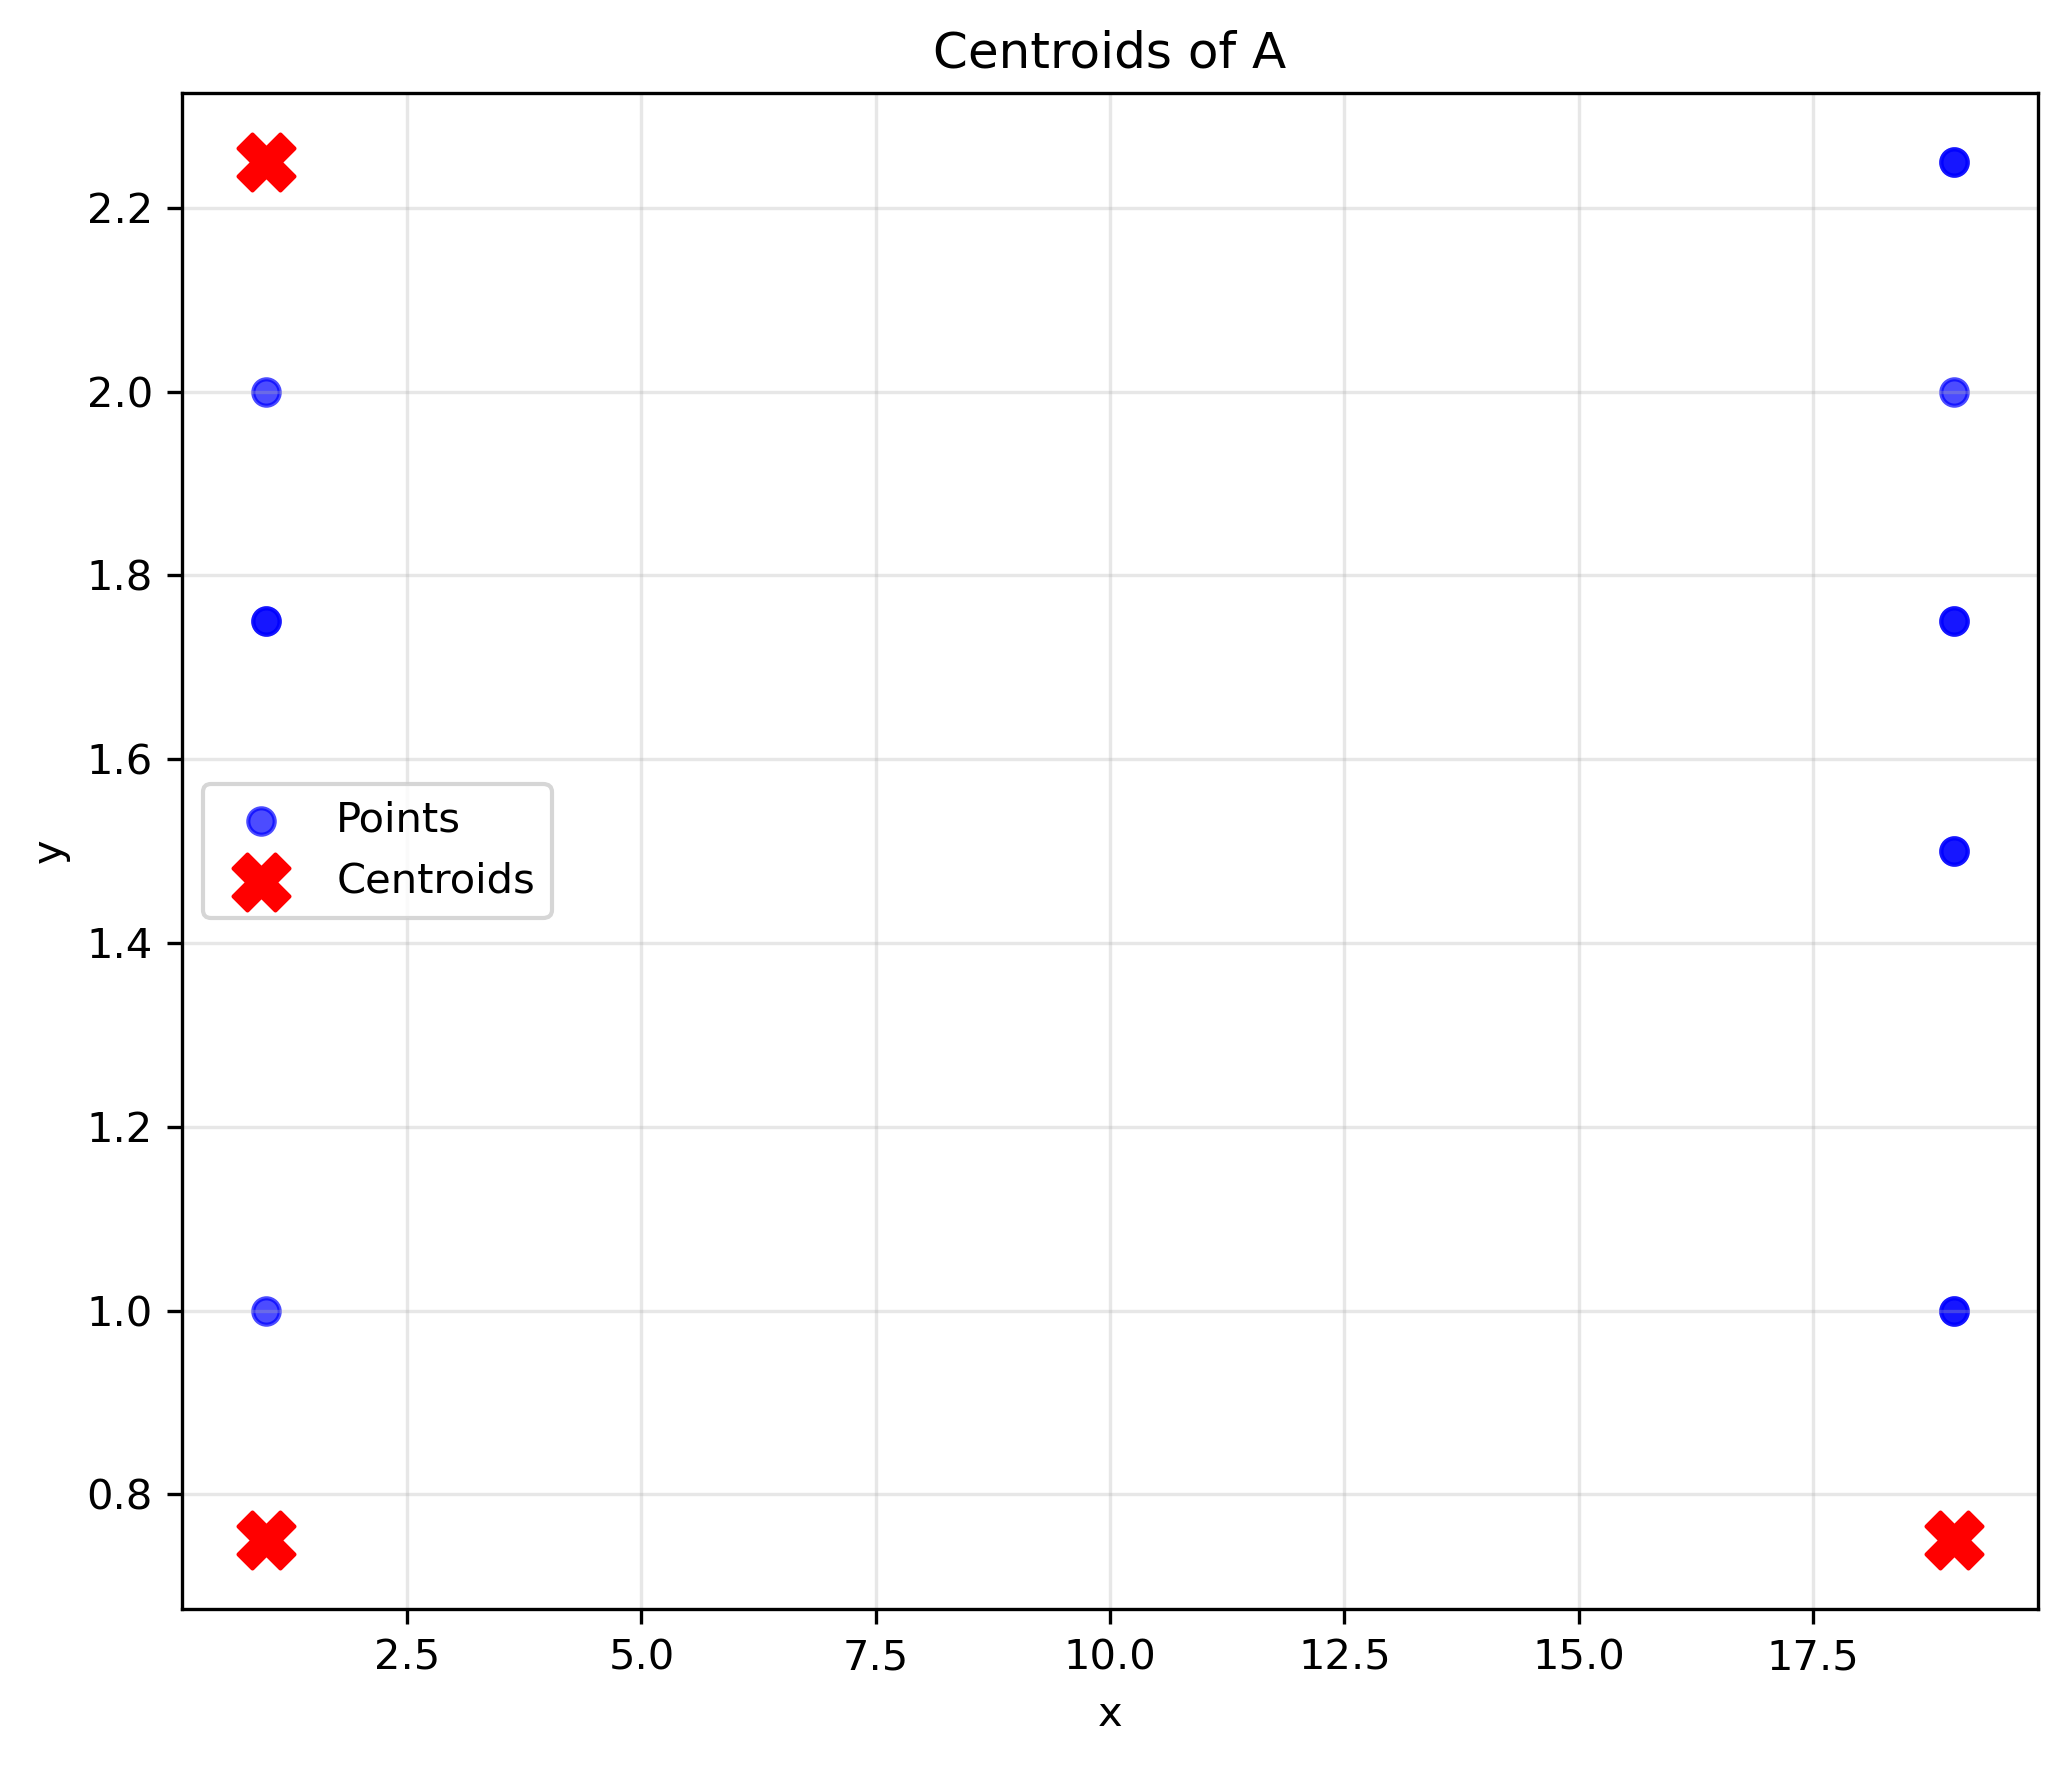
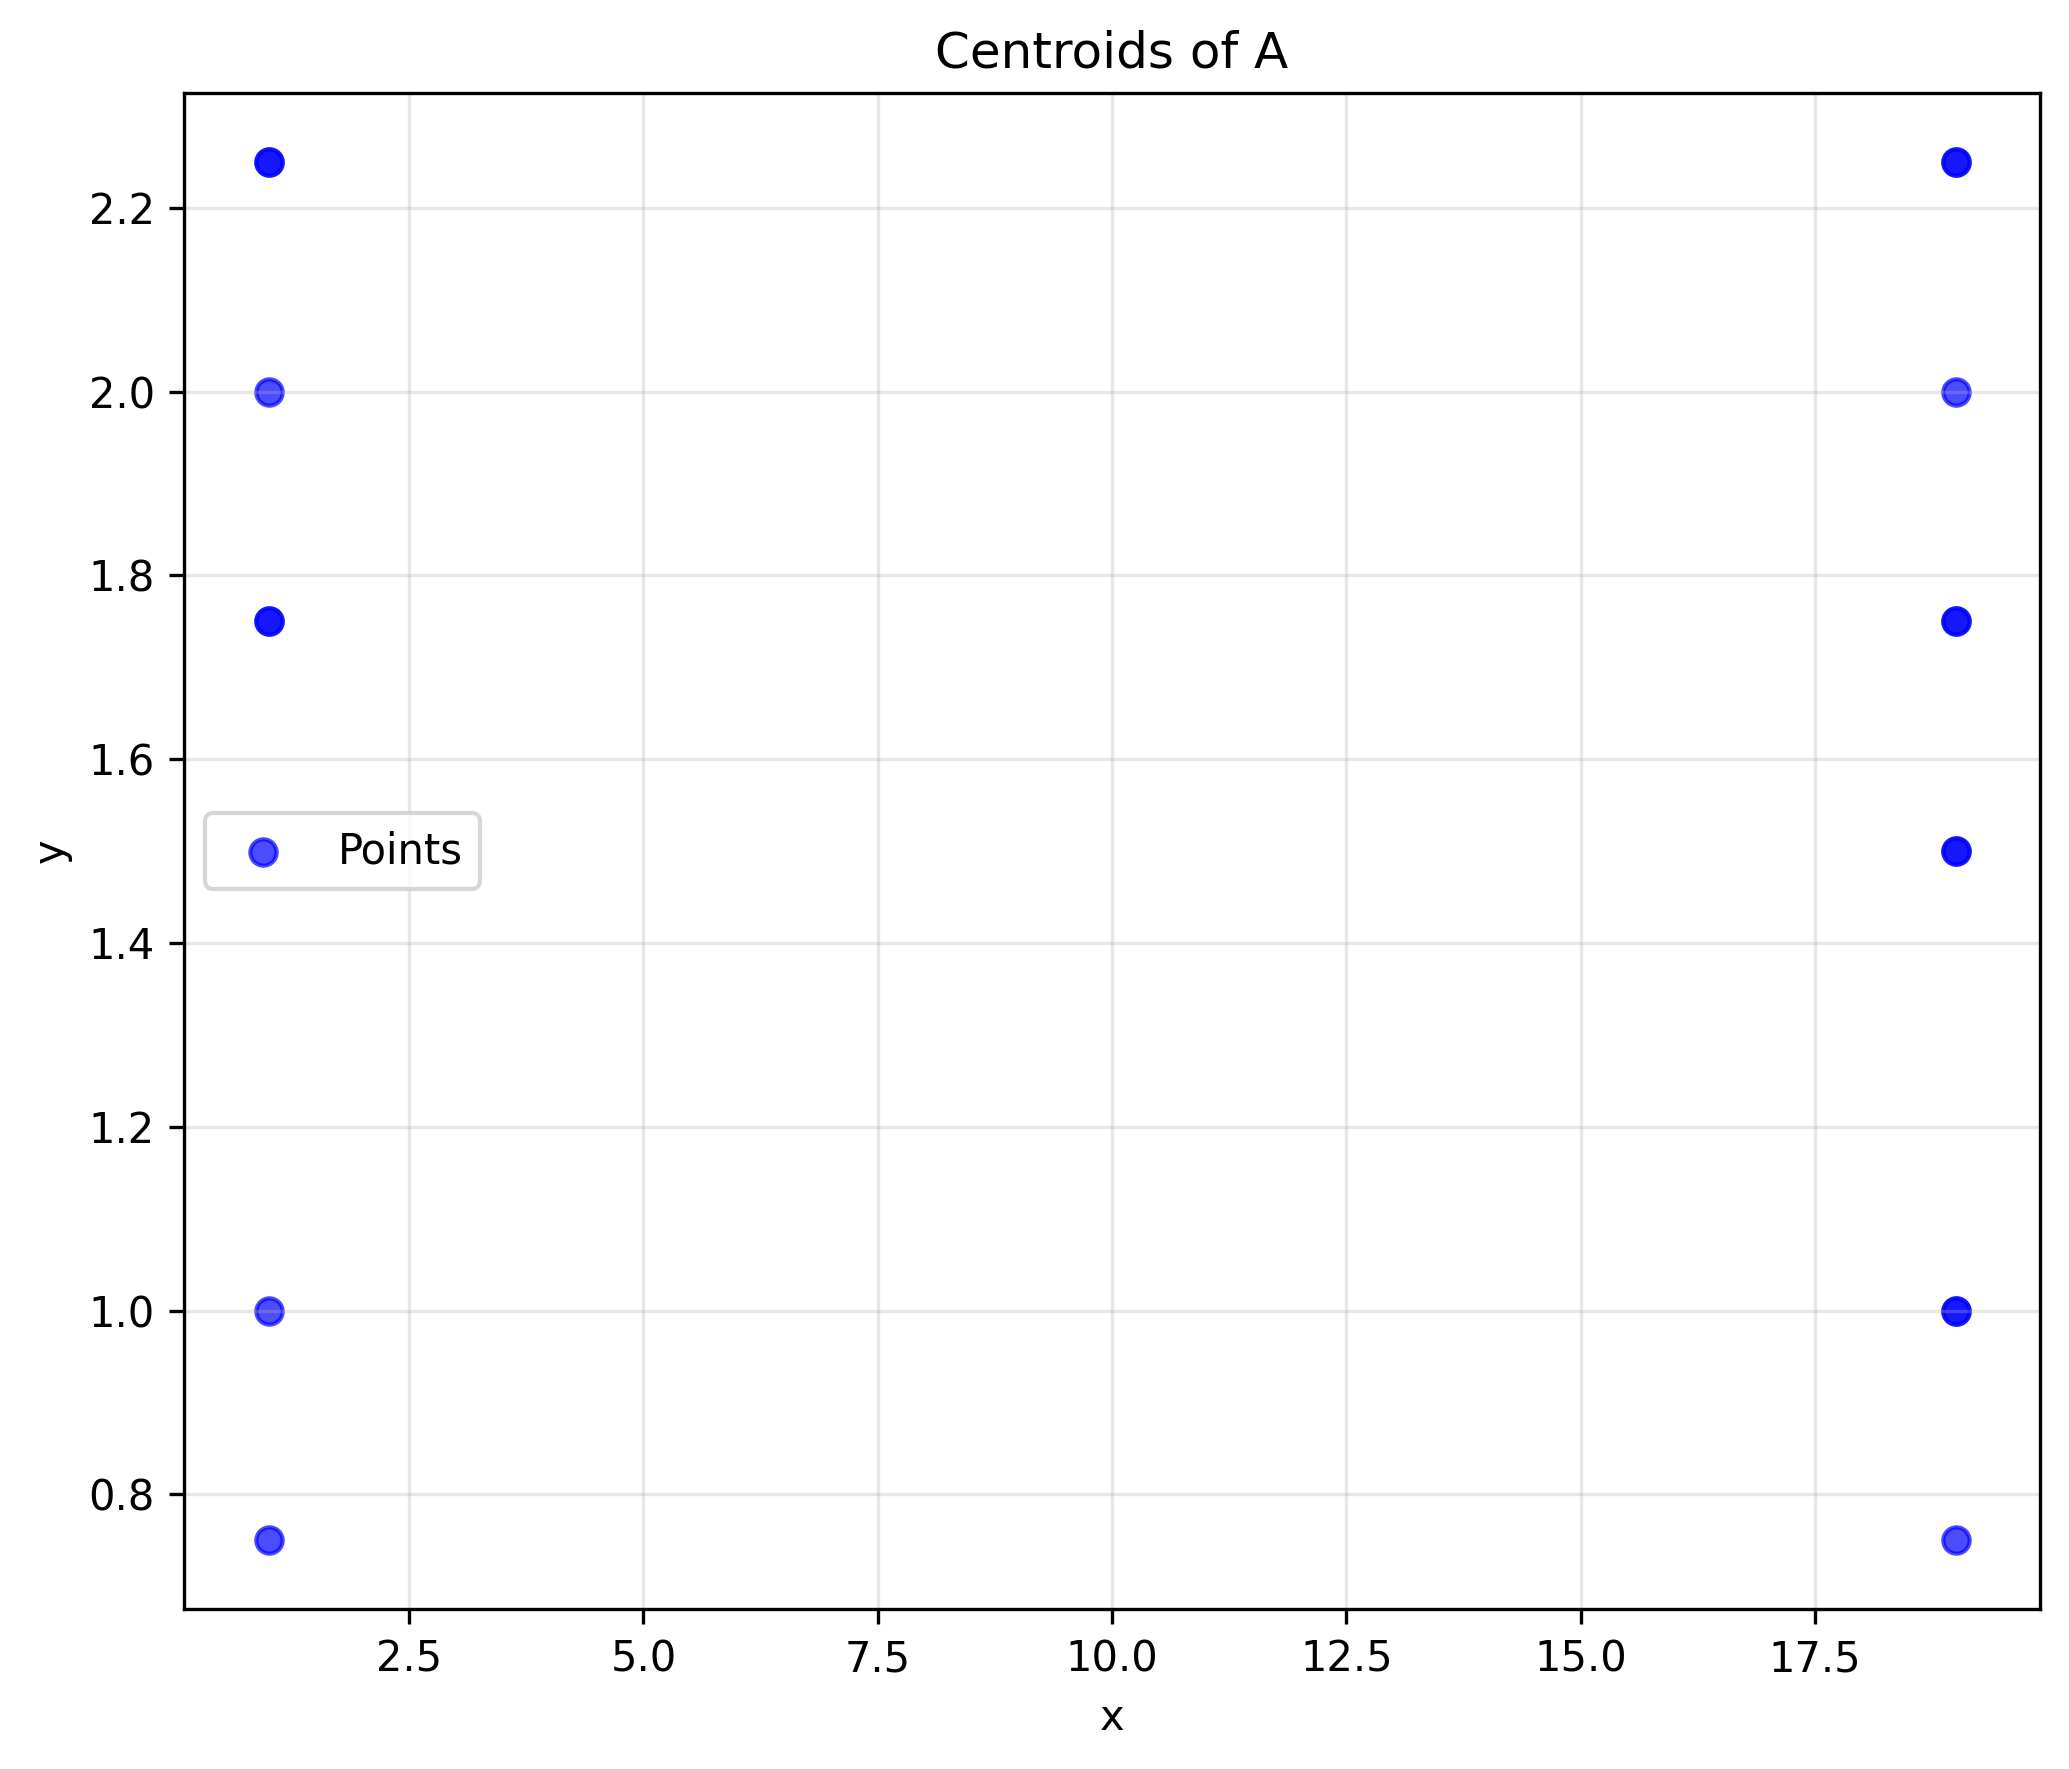
minor changes

diff --git a/G48HW1.py b/G48HW1.py
@@ -4,6 +4,29 @@ import os
 import numpy as np
 import matplotlib.pyplot as plt
 
+# Function to check positive integer (Ka, Kb)
+def check_positive_int(value, name):
+    try:
+        n = int(value)
+    except ValueError:
+        raise ValueError(f"{name} must be an integer")
+
+    if n < 0:
+        raise ValueError(f"{name} must be greater than or equal to 0")
+    return n
+
+# Function to check non negative integer (L)
+def check_non_negative_int(value, name):
+    try:
+        n = int(value)
+    except ValueError:
+        raise ValueError(f"{name} must be an integer")
+
+    if n <= 0:
+        raise ValueError(f"{name} must be greater than or equal to 0")
+    return n
+
+# Function to plot points and centroids
 def plot_points(points, centroids, title, filename):
     points = np.asarray(points)
 
@@ -26,6 +49,7 @@ def plot_points(points, centroids, title, filename):
     plt.savefig('output/' + filename, dpi=300, bbox_inches='tight')
     plt.close()
 
+# Farthest First Traversal (FFT) algorithm to select k centroids from the input points
 def fft(X, k):
     """
     X: input vectors (n_samples by dimensionality)
@@ -60,7 +84,7 @@ def fft(X, k):
 
     return centroids
 
-
+# Calls the FFT algorithm for both universes and plots the centroids
 def fair_fft(Xa, Xb, ka, kb):
     """
     Xa: input points of universe a
@@ -70,14 +94,19 @@ def fair_fft(Xa, Xb, ka, kb):
 
     out: centroids of a and b
     """
+    try:
+        centroids_a = fft(Xa, ka)
+        print('Centroids of A = ', centroids_a)
+        plot_points(Xa, centroids_a, 'Centroids of A', 'centroids_a.png')
+    except ValueError as e:
+        raise ValueError(f"Error for A: {e}")
 
-    centroids_a = fft(Xa, ka)
-    print('Centroids of A = ', centroids_a)
-    plot_points(Xa, centroids_a, 'Centroids of A', 'centroids_a.png')
-
-    centroids_b = fft(Xb, kb)
-    print('Centroids of B = ', centroids_b)
-    plot_points(Xb, centroids_b, 'Centroids of B', 'centroids_b.png')
+    try:
+        centroids_b = fft(Xb, kb)
+        print('Centroids of B = ', centroids_b)
+        plot_points(Xb, centroids_b, 'Centroids of B', 'centroids_b.png')
+    except ValueError as e:
+        raise ValueError(f"Error for B: {e}")
 
     return centroids_a , centroids_b
 
@@ -89,7 +118,9 @@ def fair_fft(Xa, Xb, ka, kb):
 
 def main():
     # CHECKING NUMBER OF CMD LINE PARAMTERS
-    assert len(sys.argv) == 5, "Usage: G48HW1 <data_path> <Ka> <Kb> <L>"
+    if len(sys.argv) != 5:
+        print("Usage: G48HW1 <data_path> <Ka> <Kb> <L>")
+        return 1
 
     # SPARK SETUP
     conf = SparkConf().setAppName('G48HW1')
@@ -98,19 +129,18 @@ def main():
     # INPUT READING
 
     data_path = sys.argv[1]
-    assert os.path.isfile(data_path), "File or folder not found"
 
-    ka = sys.argv[2]
-    assert ka.isdigit() and int(ka) >= 0, "Ka must be an integer"
-    ka = int(ka)
+    if not os.path.isfile(data_path):
+        print("File not found")
+        return 1
 
-    kb = sys.argv[3]
-    assert kb.isdigit() and int(kb) >= 0, "Ka must be an integer"
-    kb = int(kb)
-
-    L = sys.argv[4]
-    assert L.isdigit() and int(L) > 0, "L is not an integer"
-    L = int(L)
+    try:
+        ka = check_positive_int(sys.argv[2], "ka")
+        kb = check_positive_int(sys.argv[3], "kb")
+        L = check_non_negative_int(sys.argv[4], "L")
+    except ValueError as e:
+        print(e)
+        return 1
 
     print('File path: ' + data_path + ' Ka: ' + str(ka) + ' Kb: ' + str(kb) + " L: " + str(L))
 
@@ -130,14 +160,24 @@ def main():
 
     print('Na = ', Na, ' Nb = ', Nb)
 
-    assert ka <= Na, "Ka must be less than or equal to Na"
-    assert kb <= Nb, "Kb must be less than or equal to Nb"
-    assert L <= N, "L must be less than or equal to N"
+    if ka > Na:
+        print("Ka must be less than or equal to Na")
+        return 1
+    if kb > Nb:
+        print("Kb must be less than or equal to Nb")
+        return 1
+    if L > N:
+        print("L must be less than or equal to N")
+        return 1
 
     # Test FFT function
     Xa = inputPoints.filter(lambda point: point[2] == "A").map(lambda point: (float(point[0]), float(point[1]))).collect()
     Xb = inputPoints.filter(lambda point: point[2] == "B").map(lambda point: (float(point[0]), float(point[1]))).collect()
-    centroids_a, centroids_b = fair_fft(Xa, Xb, ka, kb)
+    try:
+        centroids_a, centroids_b = fair_fft(Xa, Xb, ka, kb)
+    except ValueError as e:
+        print(e)
+        return 1
 
     # Call to MapReduce
 
